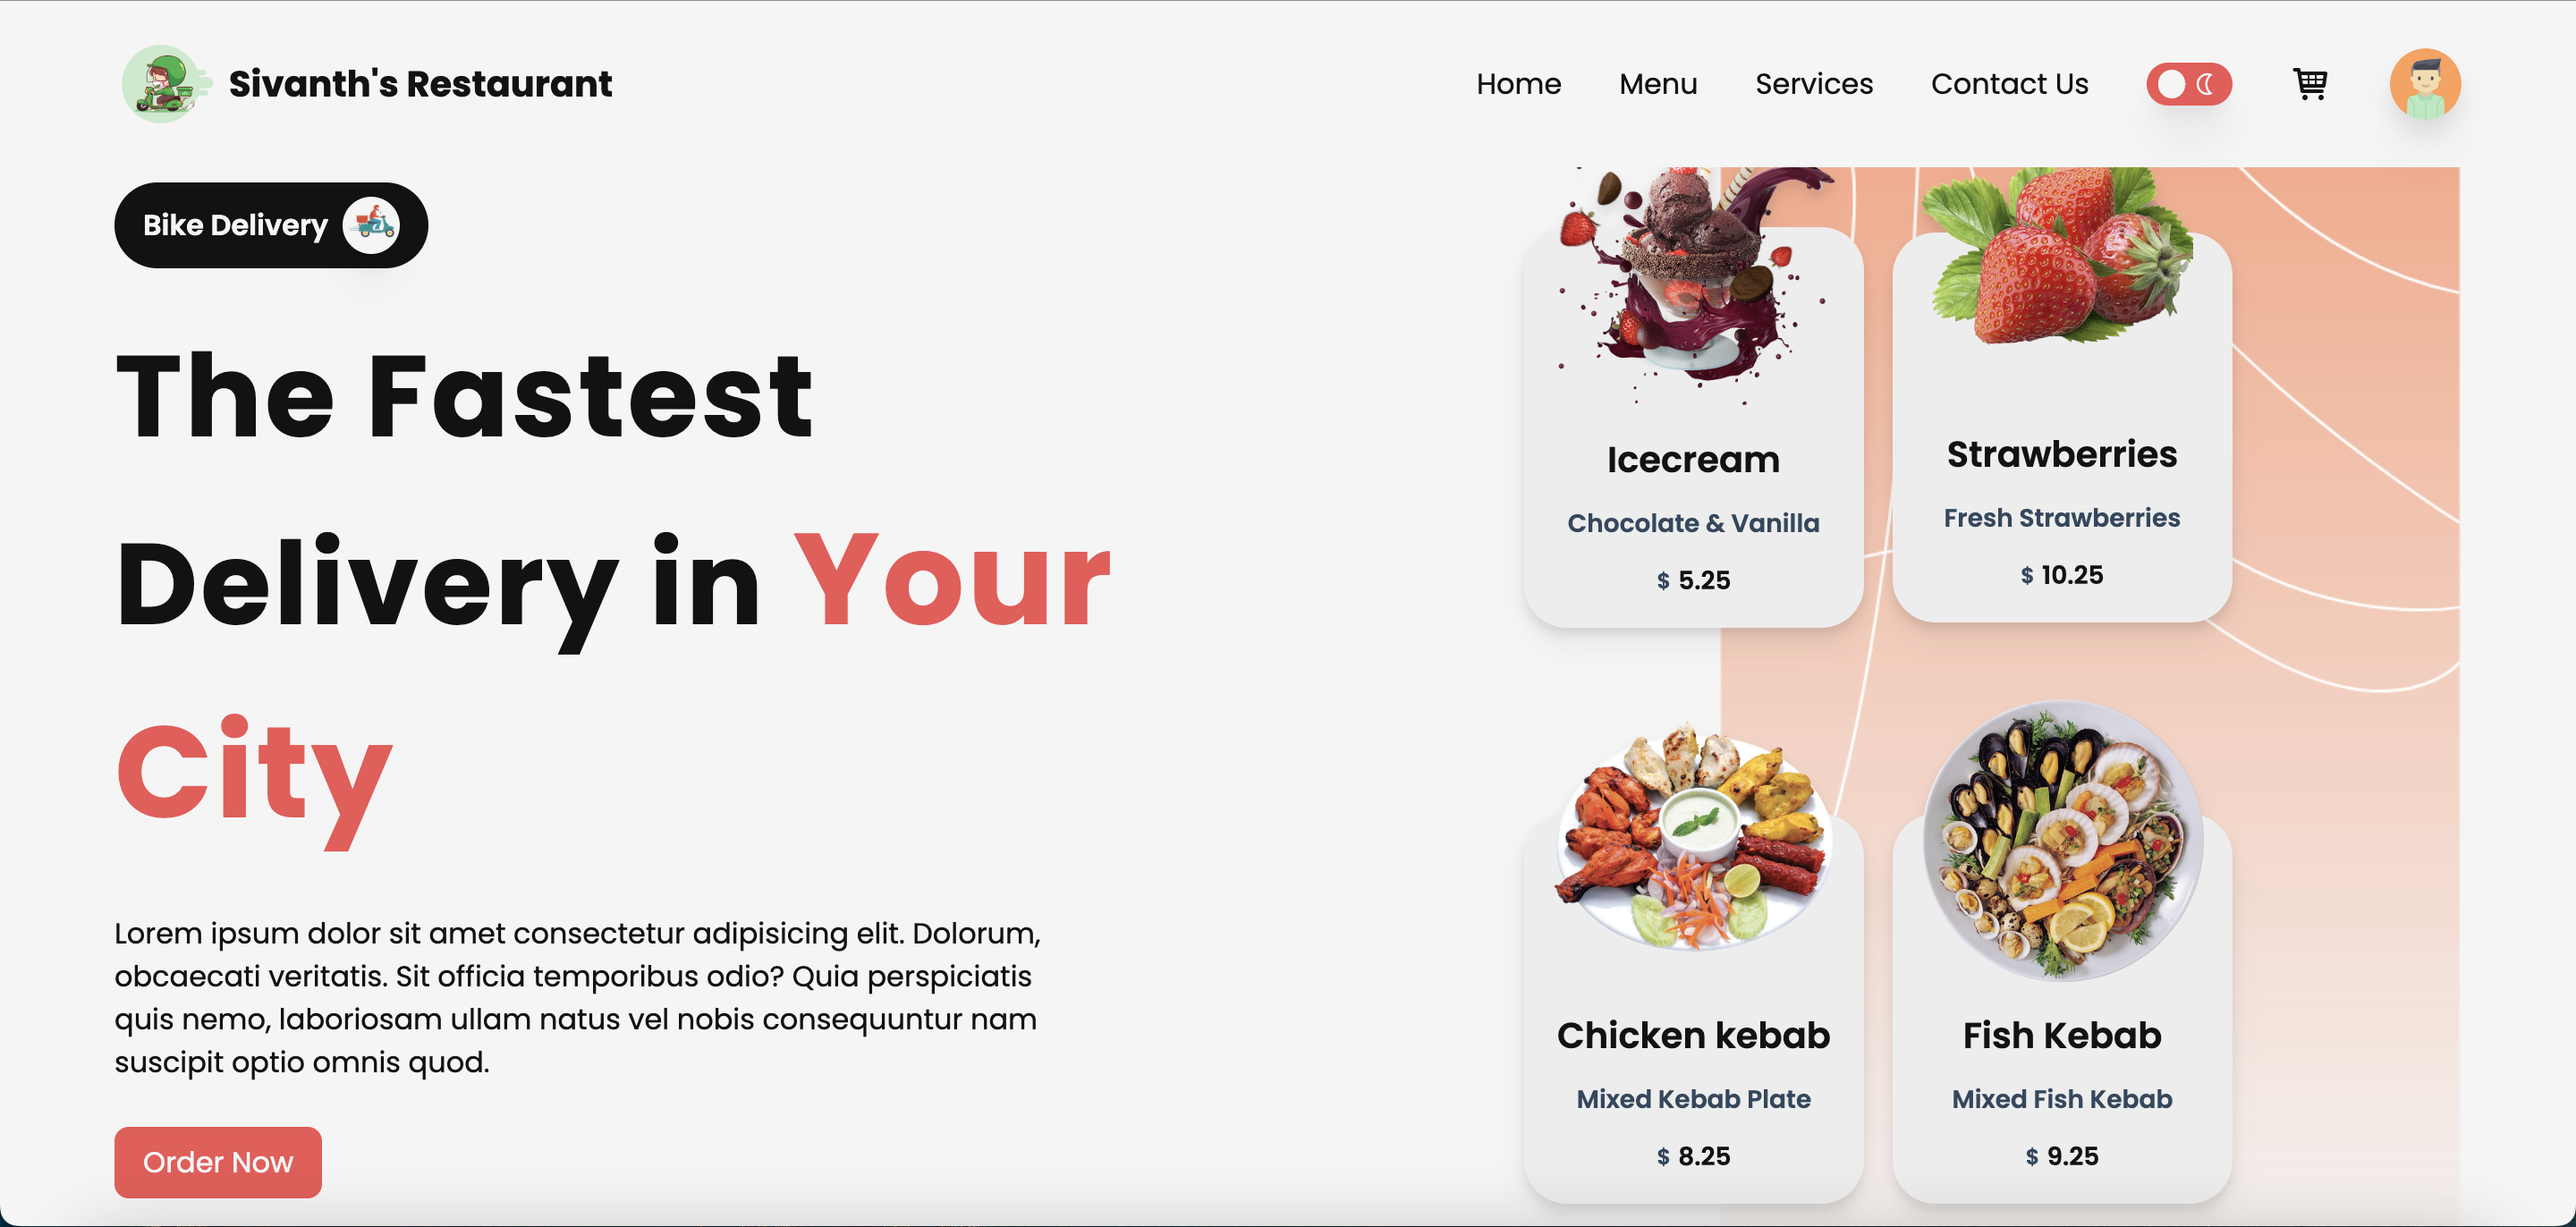
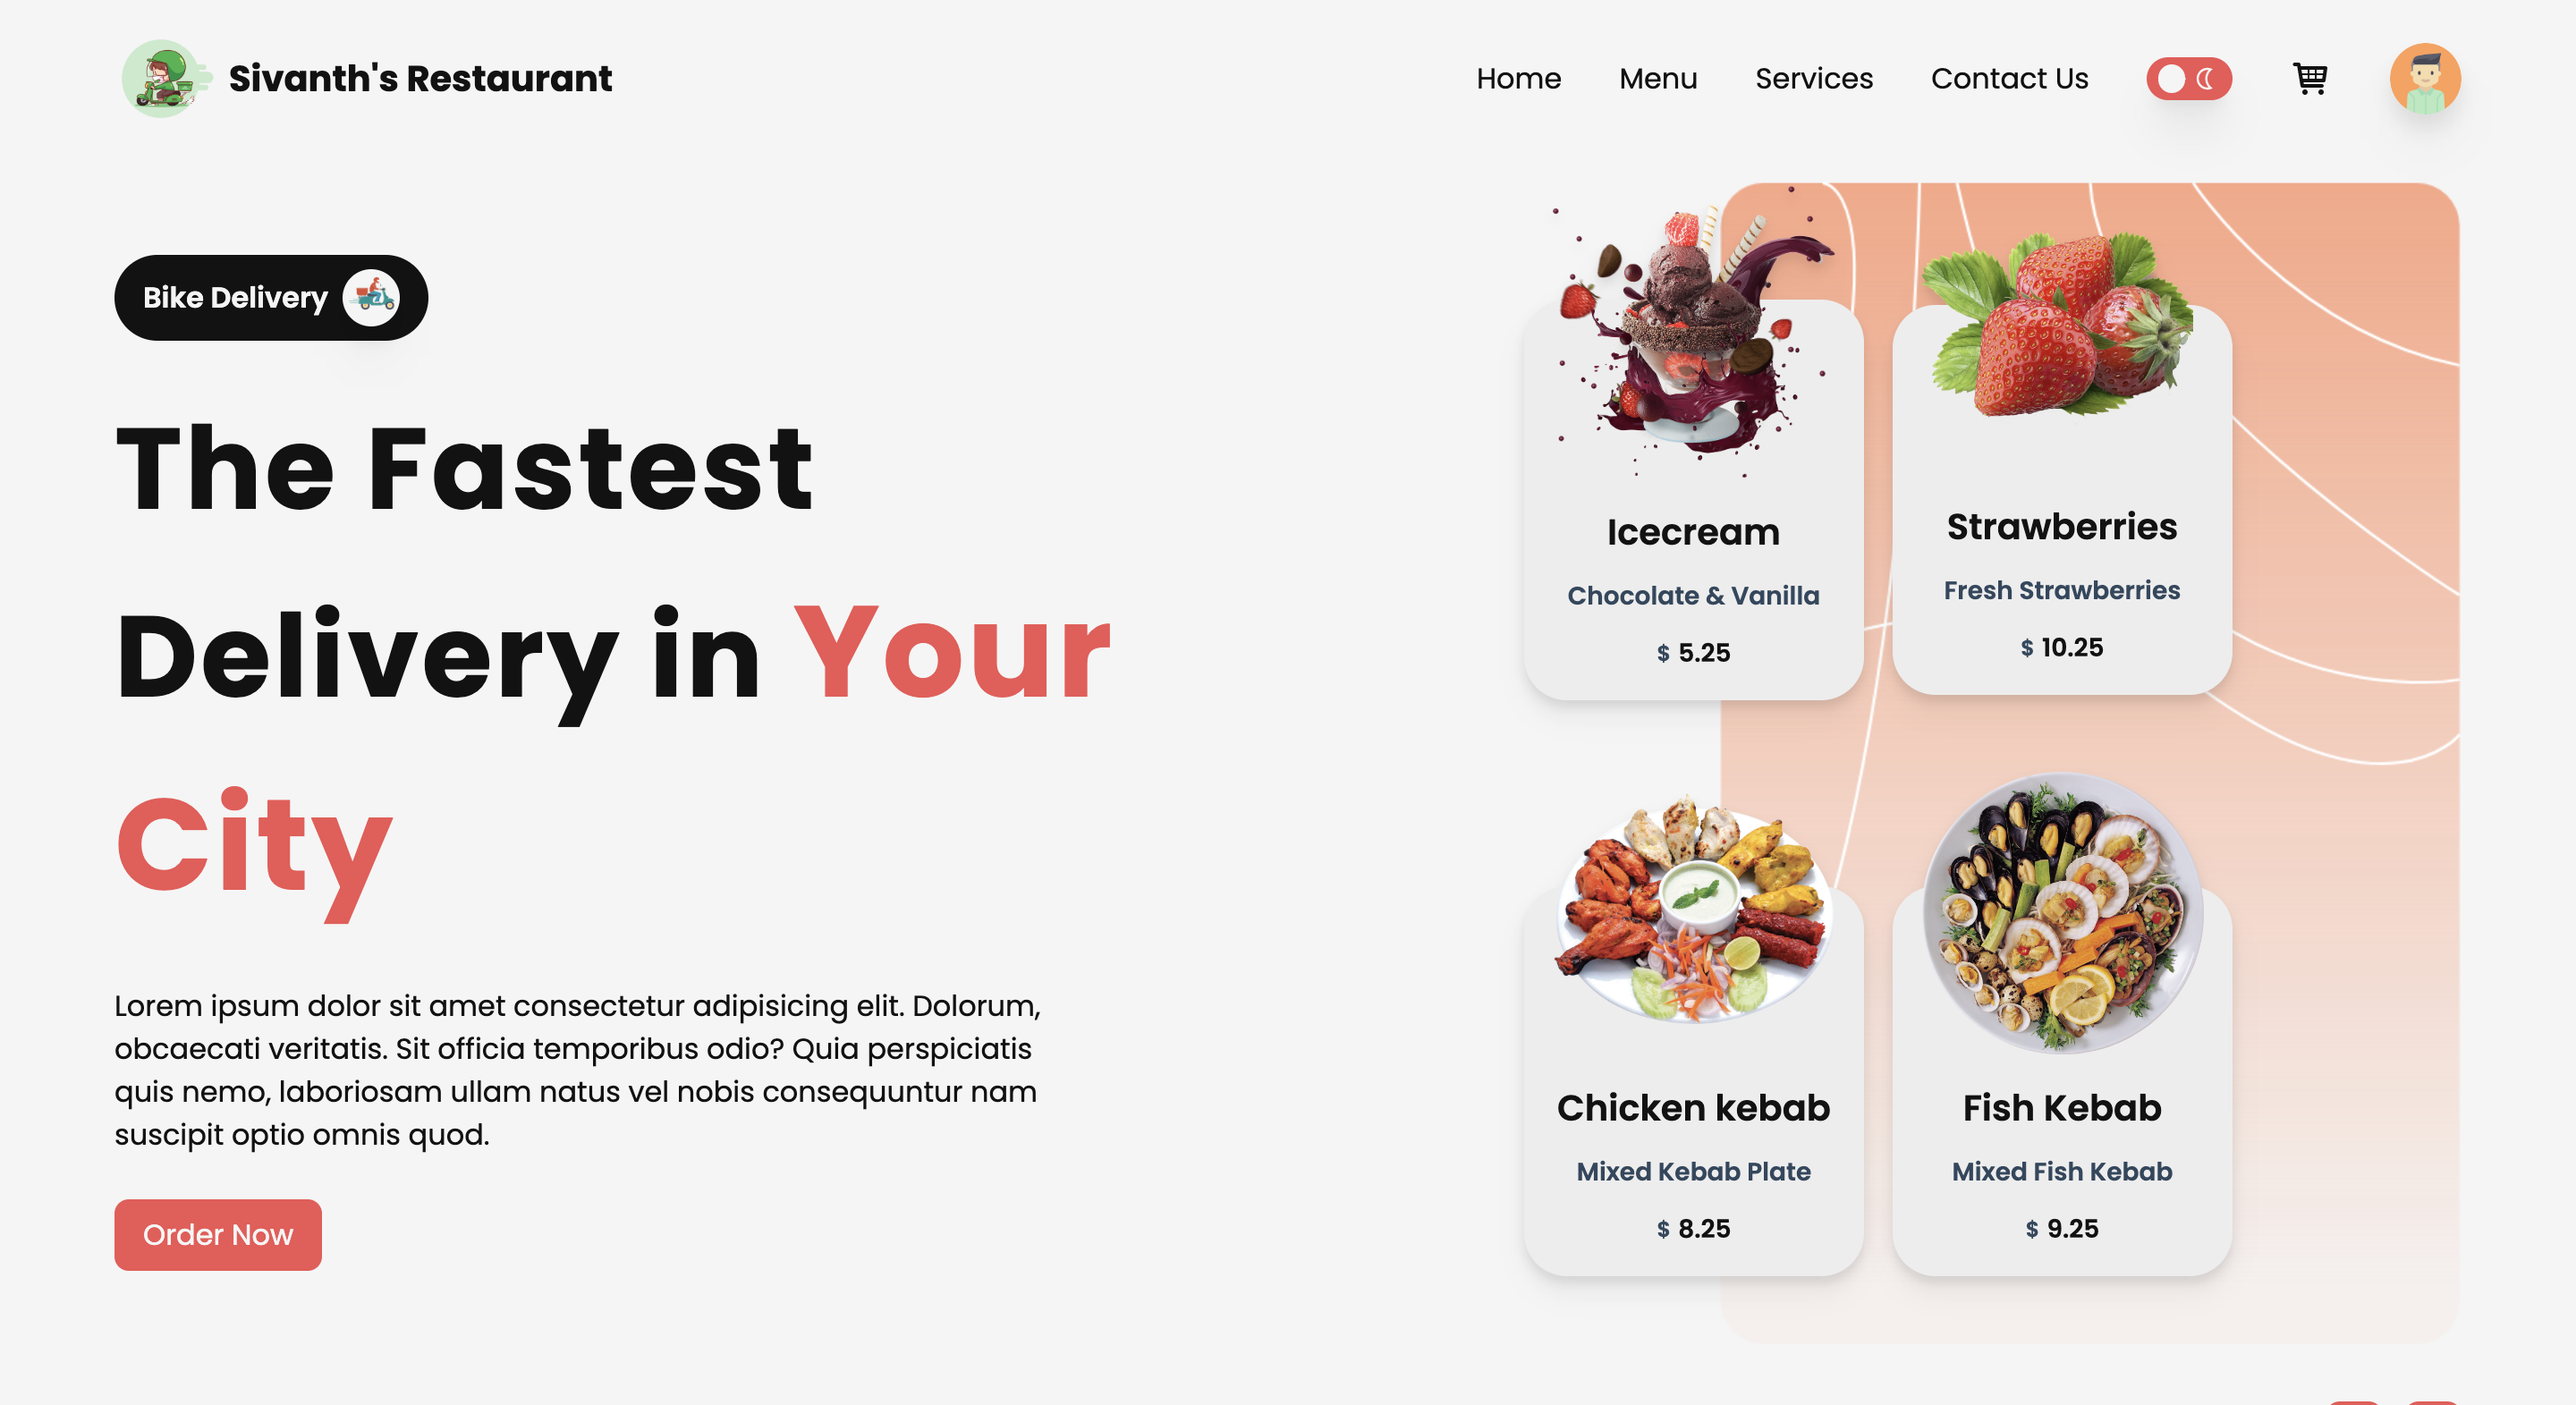
updated code

diff --git a/src/Description.js b/src/Description.js
@@ -1,29 +1,67 @@
-import React from 'react'
+import React, { useState } from 'react'
 
 const Description = ({Display}) => {
+  const [exp, setExp] = useState("")
+
+  const expClick1 = () => {
+    if(exp === "exp1") {setExp("")}
+    else {setExp("exp1")}
+  }
+
+  const expClick2 = () => {
+    if(exp === "exp2") {setExp("")}
+    else {setExp("exp2")}
+  }
+
   if(Display==="skills"){
     return(
       <div className='tab-contents ' id="skills">
         <ul>
-            <li><span>UI/UX</span><br/>Designing web/app interfaces</li>
-            <li><span>Web development</span><br/>Web app development</li>
-            <li><span>App development</span><br/>Building Android/IOS apps</li>
+            <li><span>Web Technologies</span><br/>HTML5, CSS3, Bootstrap, Tailwind, SCSS/SASS, JavaScript, TypeScript, React.JS, Next.JS, Redux</li>
+            <li><span>Version Control</span><br/>Git, Bitbucket, SVN</li>
+            <li><span>Debugging Tools</span><br/>Firebug, Chrome Developer toolbar, IE Developer Toolbar</li>
+            <li><span>Database</span><br/>MySQL, MongoDB</li>
+            <li><span>Agile Tools</span><br/>JIRA</li>
         </ul>
       </div>
   )} else if (Display==="experience") {
         return(
           <div className='tab-contents' id="experience">
               <ul>
-                  <li><span>2015-2018</span><br/>course in ISB</li>
-                  <li><span>2017-2018</span><br/>Team lead in final year project</li>
+                  <li><span>2019-2021</span><br/><p className={exp === "exp1" && "active-content"} onClick={expClick1}>ORBINET TECHNOLOGIES PVT LTD - Frontend Developer, Bangalore, India.</p></li>
+                  {(exp === "exp1") && (
+                    <ul className='exp-content'>
+                      <li>Developed Fronted web applications using HTML5, CSS3, Bootstrap, SCSS, Tailwind, TypeScript, and React.</li>
+                      <li>Integrated Redux Framework with React to handle large chunks of data, and state management for performance optimization.</li>
+                      <li>Handled REST API calls with AJAX and processed JSON and XML data responses to format, validate and display to the user.</li>
+                      <li>Used Redux-Promise in application to retrieve data from Backend and to also perform RESTFUL services to call for POST, PUT, DELETE and GET methods.</li>
+                      <li>Experience in using Databases like MongoDB and MySQL to access data using valid queries.</li>
+                      <li>Worked through software development life cycle for gathering user requirements and building the code for the tool.</li>
+                      <li>Optimized components for maximum performance across various devices and browsers.</li>
+                      <li>Good experience in using code versioning tools like Git, and Bitbucket.</li>
+                    </ul>
+                  )}
+                  <li><span>2022-2023</span><br/><p className={exp === "exp2" && "active-content"} onClick={expClick2}>Freelance Frontend Developer - Online.</p></li>
+                  {(exp === "exp2") && (
+                    <ul className='exp-content'>
+                      <li>Developed a series of user-friendly Web Applications using HTML, CSS, Javascript, React, and Redux.</li>
+                      <li>Experienced in Building and maintaining Single Page Applications (SPA) in React.</li>
+                      <li>Participated in Project planning from early design concepts to structuring and developing projects.</li>
+                      <li>Involved in adding new features to the existing applications.</li>
+                      <li>Used ECMAScript (ES6), and JSX in React for developing Reusable components.</li>
+                      <li>Designed multiple dynamic and browser-compatible pages.</li>
+                      <li>Carried out day-day-day duties accurately and efficiently.</li>
+                      <li>Worked flexible hours; night, weekend, and holiday shifts.</li>
+                    </ul>
+                  )}
               </ul>
           </div>
 
   )} else {return(
       <div className='tab-contents ' id="education">
           <ul>
-              <li><span>2021-2022</span><br/>Masters in Industrial Plant Engineering</li>
-              <li><span>2014-2018</span><br/>B.tech in Mechanical Engineering</li>
+              <li><span>2021-2022</span><br/><p style={{cursor: 'pointer', marginTop: '10px'}}>Masters in Industrial Plant Engineering</p></li>
+              <li><span>2014-2018</span><br/><p style={{cursor: 'pointer', marginTop: '10px'}}>B.tech in Mechanical Engineering</p></li>
           </ul>
       </div>
     )}

diff --git a/src/Portfolio.js b/src/Portfolio.js
@@ -11,28 +11,28 @@ function Portfolio() {
             <h1 className='heading'>My Work</h1>
             <div className='work-list'>
                 <div className='work'>
-                    <img src={work_1} alt='work-1' />
+                    <img src={work_1} alt='work-1' /> 
                     <div className='layer'>
-                         <h3>Netflix Clone</h3>
-                         <p>The app connects you to the talented peoplearound the world. Download it from play store.</p>
-                         <a href='#'><i className="fa-solid fa-up-right-from-square"></i></a>
+                         <h3>Dashboard</h3>
+                         <p>This project is built using Material UI, Material UI Data Grid, Nivo Charts, Redux Toolkit and Redux Toolkit Query, Node JS, Express Js, Mongoose, and MongoDB.</p>
+                         <a href='https://sivanths-dashboard-project.onrender.com' target='_blank' rel="noreferrer"><i className="fa-solid fa-up-right-from-square"></i></a>
                     </div>
                 </div>
                 <div className='work'>
-                    <img src={work_2} alt='work-2' />
+                    <img src={work_2} alt='work-2' /> 
                     <div className='layer'>
-                         <h3>Music App</h3>
-                         <p>The app connects you to the talented peoplearound the world. Download it from play store.</p>
-                         <a href='#'><i className="fa-solid fa-up-right-from-square"></i></a>
+                         <h3>Food Delivery</h3>
+                         <p>This project is built using Reactjs, Framer motion and Tailwind css</p>
+                         <a href='https://sivanthsrestaurant.netlify.app' target='_blank' rel="noreferrer"><i className="fa-solid fa-up-right-from-square"></i></a>
                     </div>
                 </div>
                 <div className='work'>
                     <img src={work_3} alt='work-3' />
                     <div className='layer'>
-                         <h3>Food Delivery</h3>
-                         <p>The app connects you to the talented peoplearound the world. Download it from play store.</p>
-                         <a href='https://sivanthsrestaurant.netlify.app'><i className="fa-solid fa-up-right-from-square"></i></a>
-                    </div> 
+                         <h3>Netflix Clone</h3>
+                         <p>This project is built using Reactjs, Redux, Redux Toolkit and Axios for fetching data.</p>
+                         <a href='https://sivanthsnetflixclone.netlify.app' target='_blank' rel="noreferrer"><i className="fa-solid fa-up-right-from-square"></i></a>
+                    </div>
                 </div>
             </div>
             {/* <a className='btn' href='#'>See more<i className="fa-solid fa-caret-down"></i></a> */}

diff --git a/src/About.js b/src/About.js
@@ -17,7 +17,7 @@ const [display,setDisplay] = useState("skills")
                 </div>
                 <div className='about-col-2'>
                     <h1 className='heading'>About Me</h1>
-                    <p>Front-End Developer with a proven ability to collaborate effectively with senior developers while spending extra time to be mentored. Enjoy working closely with team members to ensure workloads are effectively redirected to bottlenecks and personally picking up the slack when necessary. With a passion for both personal growth and for software development, I attended a 1000+ hour coding bootcamp to learn new languages while sharpening existing skills. Ready to apply my passion for coding to a talented engineering team to develop quality solutions.</p>
+                    <p>Frontend developer with three years of professional experience in building responsive and user-friendly websites. I have experience working with <b>HTML, CSS, JavaScript, Typescript, React, Next.JS, Redux, REST API, Axios and modern CSS frameworks Bootstrap, Tailwind CSS, SASS, LESS, Styled Components.</b> I have experience in collaborating with a team and delivering best results in the given time frame.</p>
                     <div className='tab-titles'>
                         <p className= {display === "skills" ? "active-link tab-links" : "tab-links"} onClick={()=> setDisplay("skills")} >Skills</p>
                         <p className={display === "experience" ? "active-link tab-links" :"tab-links"} onClick={()=> setDisplay("experience")} >Experience</p>

diff --git a/src/Services.js b/src/Services.js
@@ -11,19 +11,19 @@ function Services() {
                     <i className="fa-solid fa-code"></i>
                     <h2>Web Design</h2>
                     <p>Front-End Developer with a proven ability to collaborate effectively with senior developers while spending extra time to be mentored.</p>
-                    <a href='#'>Learn more</a>
+                    {/* <a href='#'>Learn more</a> */}
                 </div>
                 <div>
                     <i className="fa-solid fa-crop"></i>
                     <h2>UI/UX Design</h2>
                     <p>Front-End Developer with a proven ability to collaborate effectively with senior developers while spending extra time to be mentored.</p>
-                    <a href='#'>Learn more</a>
+                    {/* <a href='#'>Learn more</a> */}
                 </div>
                 <div>
                     <i className="fa-brands fa-app-store"></i>
                     <h2>App Design</h2>
                     <p>Front-End Developer with a proven ability to collaborate effectively with senior developers while spending extra time to be mentored.</p>
-                    <a href='#'>Learn more</a>
+                    {/* <a href='#'>Learn more</a> */}
                 </div>
             </div>
         </div>

diff --git a/src/Home.css b/src/Home.css
@@ -1,9 +1,11 @@
 #home {
     width: 100%;
     height: 100vh;
+    background-color: #080808;
     background-image: url(./images/background.png);
-    background-size: cover;
-    background-position: center;
+    background-repeat: no-repeat;
+    background-size: 40rem;
+    background-position: right;
 }
 
 .container {
@@ -11,7 +13,11 @@
 }
 
 .header-text {
-    margin-top: 30%;
+    height: 100vh;
+    display: flex;
+    flex-direction: column;
+    align-items: flex-start;
+    justify-content: center;
     font-size: 30px;
 }
 
@@ -26,10 +32,12 @@
 
 @media only screen and (max-width: 660px) {
     #home {
-        background-image: url(./images/phone-background.png);
+        background-image: url(./images/background.png);
+        background-position: left;
+        background-position-y: bottom;
     }
     .header-text {
-        margin-top: 100%;
+        margin-top: 70px;
         font-size: 16px;
     }
     .header-text h1 {

diff --git a/src/About.css b/src/About.css
@@ -23,8 +23,13 @@
 }
 
 .heading {
-    font-size: 60px;
+    font-size: 40px;
     font-weight: 600;
+    margin-bottom: 10px;
+    color: #fff;
+}
+
+.about-col-2 b {
     color: #fff;
 }
 
@@ -56,8 +61,15 @@
     width: 50%;
 }
 
-.tab-contents ul li {
+.tab-contents {
+    display: block;
+}
+
+.tab-contents ul {
     list-style: none;
+}
+
+.tab-contents ul li {
     margin: 10px 0;
 }
 
@@ -66,9 +78,28 @@
     font-size: 14px;
 }
 
-.tab-contents {
-    display: block;
-    
+.tab-contents p {
+    width: max-content;
+    cursor: pointer;
+    margin-top: 10px;
+}
+
+.tab-contents p:hover {
+    color: #fff;
+}
+
+.active-content {
+    cursor: pointer;
+    margin-top: 10px;
+    color: #fff;
+}
+
+.exp-content {
+    margin: 10px 25px;
+}
+
+.exp-content li {
+    list-style: circle;
 }
 
 @media only screen and (max-width: 660px) {
